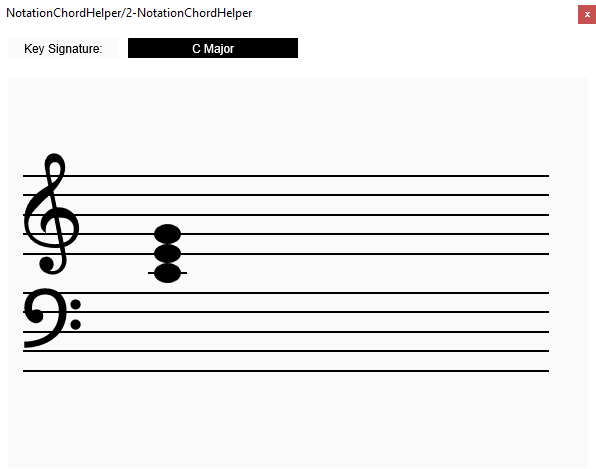
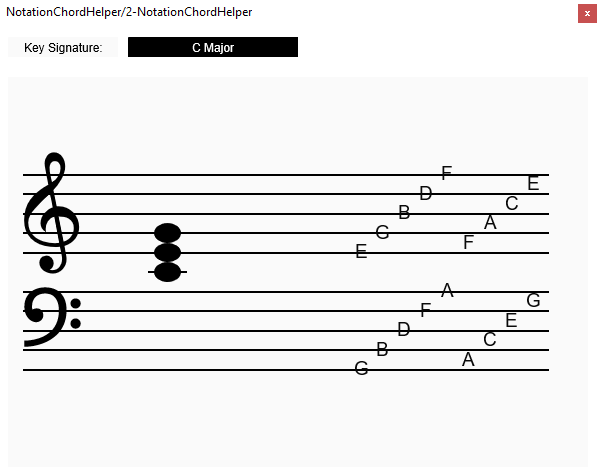
Add note names for lines and spaces

diff --git a/source/notation_view.cpp b/source/notation_view.cpp
@@ -98,6 +98,9 @@ void NotationView::draw(VSTGUI::CDrawContext *context) {
   // Draw the staff
   drawStaff(context, rect);
 
+  // Draw note names on the right side
+  drawNoteNames(context, rect);
+
   // Draw the key signature
   drawKeySignature(context, rect);
 
@@ -182,6 +185,78 @@ void NotationView::drawBassClef(VSTGUI::CDrawContext *context, double x,
   double clefWidth = dim.clefWidth();
   VSTGUI::CRect textRect(x, y - fontSize / 2, x + clefWidth, y + fontSize / 2);
   context->drawString("𝄢", textRect, VSTGUI::kCenterText); // Unicode bass clef
+}
+
+//------------------------------------------------------------------------
+void NotationView::drawNoteNames(VSTGUI::CDrawContext *context,
+                                 const VSTGUI::CRect &rect) {
+  auto dim = getDimensions();
+  double centerY = rect.top + rect.getHeight() / 2.0;
+  double staffLineHeight = dim.staffLineHeight();
+  double grandStaffGap = dim.grandStaffGap();
+
+  // Calculate staff centers - same as in drawStaff
+  double trebleStaffCenter =
+      centerY - (grandStaffGap / 2.0) - (staffLineHeight * 2.0) - 1.0;
+  double bassStaffCenter =
+      centerY + (grandStaffGap / 2.0) + (staffLineHeight * 2.0) - 1.0;
+
+  // Set up font for note names
+  double fontSize = staffLineHeight; // Slightly larger than staff line height
+  auto font =
+      VSTGUI::makeOwned<VSTGUI::CFontDesc>("Arial", static_cast<int>(fontSize));
+  context->setFont(font);
+  context->setFontColor(VSTGUI::CColor(10, 10, 10, 255));
+
+  // Horizontal starting position (right half of staff)
+  double staffRight = rect.getWidth() - dim.rightMargin();
+  double staffLeft = rect.left + dim.leftMargin();
+  double staffMid = (staffLeft + staffRight) / 2.0;
+  double baseX =
+      staffMid + (staffRight - staffMid) * 0.25; // 25% toward right edge
+  double letterSpacing = fontSize * 1.1;         // Space between letters
+
+  // Treble clef note names (from bottom to top)
+  // Lines: E G B D F
+  // Spaces: F A C E
+  const char *trebleLineNotes[] = {"E", "G", "B", "D", "F"};
+  const char *trebleSpaceNotes[] = {"F", "A", "C", "E"};
+
+  // Draw treble clef line note letters
+  for (int i = 0; i < 5; i++) {
+    double x = baseX + i * letterSpacing;
+    double y = trebleStaffCenter + (staffLineHeight * (2 - i));
+    VSTGUI::CRect textRect(x, y - fontSize / 2, x + fontSize, y + fontSize / 2);
+    context->drawString(trebleLineNotes[i], textRect, VSTGUI::kCenterText);
+  }
+  // Draw treble clef space note letters to the right of the line notes
+  for (int i = 0; i < 4; i++) {
+    double x = baseX + (i + 5) * letterSpacing;
+    double y = trebleStaffCenter + (staffLineHeight * (1.5 - i));
+    VSTGUI::CRect textRect(x, y - fontSize / 2, x + fontSize, y + fontSize / 2);
+    context->drawString(trebleSpaceNotes[i], textRect, VSTGUI::kCenterText);
+  }
+
+  // Bass clef note names (from bottom to top)
+  // Lines: G B D F A
+  // Spaces: A C E G
+  const char *bassLineNotes[] = {"G", "B", "D", "F", "A"};
+  const char *bassSpaceNotes[] = {"A", "C", "E", "G"};
+
+  // Draw bass clef line note letters
+  for (int i = 0; i < 5; i++) {
+    double x = baseX + i * letterSpacing;
+    double y = bassStaffCenter + (staffLineHeight * (2 - i));
+    VSTGUI::CRect textRect(x, y - fontSize / 2, x + fontSize, y + fontSize / 2);
+    context->drawString(bassLineNotes[i], textRect, VSTGUI::kCenterText);
+  }
+  // Draw bass clef space note letters to the right of the line notes
+  for (int i = 0; i < 4; i++) {
+    double x = baseX + (i + 5) * letterSpacing;
+    double y = bassStaffCenter + (staffLineHeight * (1.5 - i));
+    VSTGUI::CRect textRect(x, y - fontSize / 2, x + fontSize, y + fontSize / 2);
+    context->drawString(bassSpaceNotes[i], textRect, VSTGUI::kCenterText);
+  }
 }
 
 //------------------------------------------------------------------------

diff --git a/source/notation_view.h b/source/notation_view.h
@@ -34,6 +34,7 @@ private:
   void drawStaff(VSTGUI::CDrawContext *context, const VSTGUI::CRect &rect);
   void drawTrebleClef(VSTGUI::CDrawContext *context, double x, double y);
   void drawBassClef(VSTGUI::CDrawContext *context, double x, double y);
+  void drawNoteNames(VSTGUI::CDrawContext *context, const VSTGUI::CRect &rect);
   void drawNotes(VSTGUI::CDrawContext *context, const VSTGUI::CRect &rect);
   void drawNote(VSTGUI::CDrawContext *context, double x, double y,
                 bool filled = true);

diff --git a/README.md b/README.md
@@ -6,9 +6,11 @@ A VST3 plugin for displaying musical notation and chord analysis.
 
 ## Features
 
-- VST3 compatible plugin
+- Displays MIDI input on piano grand staff
+- All major key signatures supported
+- Chord analysis (Upcoming)
+- VST3 plugin
 - Cross-platform support (Windows and macOS)
-- Built with the VST3 SDK
 
 ## Building from Source
 
